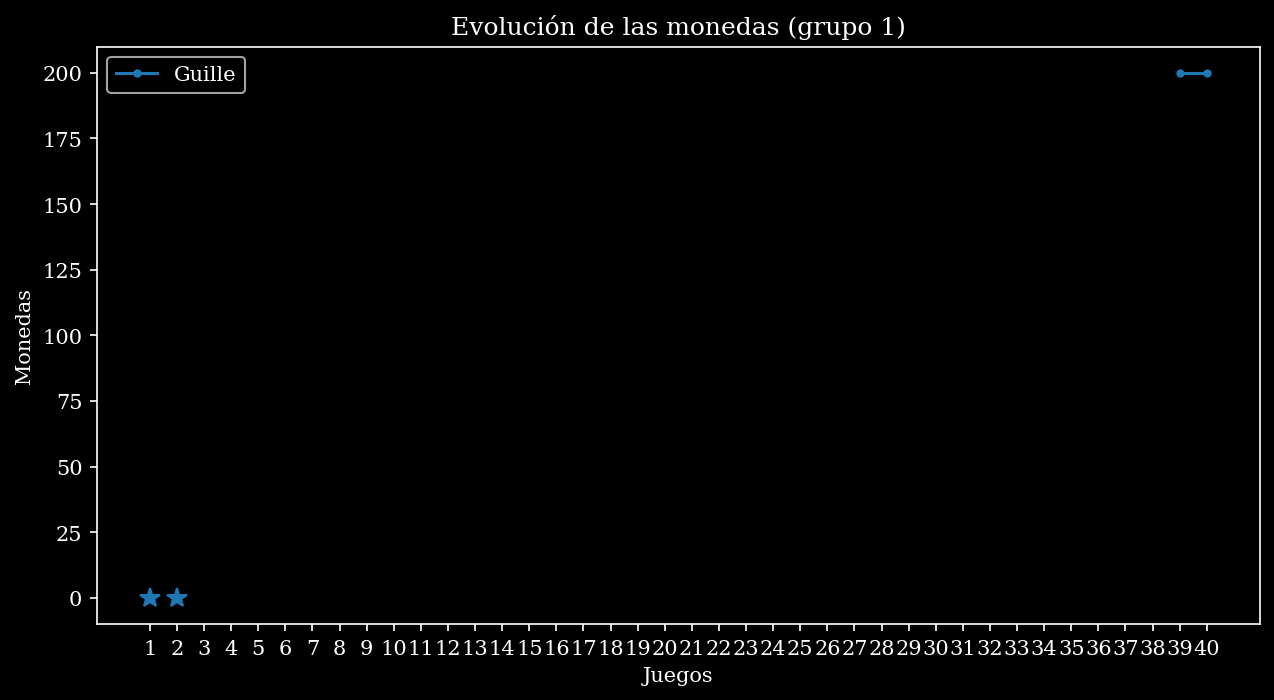
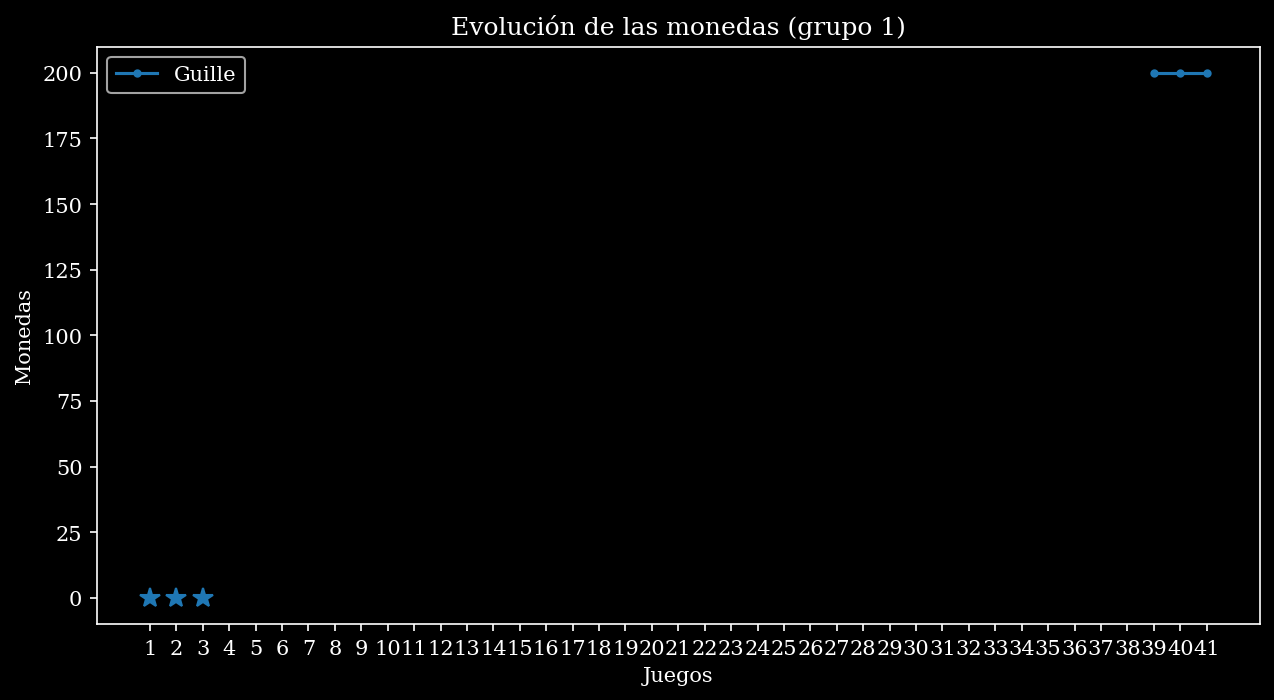
cambio css login

Changed region(s): [[0.1531, 0.9, 0.949, 0.96], [0.1224, 0.84, 0.1837, 0.87], [0.8878, 0.09, 0.9184, 0.12]]

diff --git a/servidor/static/css/style.css b/servidor/static/css/style.css
@@ -225,8 +225,29 @@ body{
 .form-dos-columnas {
     display: flex;
     flex-wrap: wrap;
-    justify-content: space-between; /* Esto separa las dos columnas */
-    gap: 30px; /* Añade espacio entre las columnas y filas, ajusta según sea necesario */
+    justify-content: space-between;
+    gap: 24px;
+    flex-direction: column;
+    align-items: center;
+}
+.form-select, .form-control {
+    display: block;
+    width: 100%;
+    padding: .375rem .75rem;
+    font-size: 1rem;
+    font-weight: 400;
+    line-height: 1.5;
+    color: #212529;
+    background-color: #fff;
+    background-clip: padding-box;
+    border: 1px solid #ced4da;
+    -webkit-appearance: none;
+    -moz-appearance: none;
+    appearance: none;
+    border-radius: .25rem;
+    transition: border-color .15s 
+ease-in-out, box-shadow .15s 
+ease-in-out;
 }
 
 .columna {
